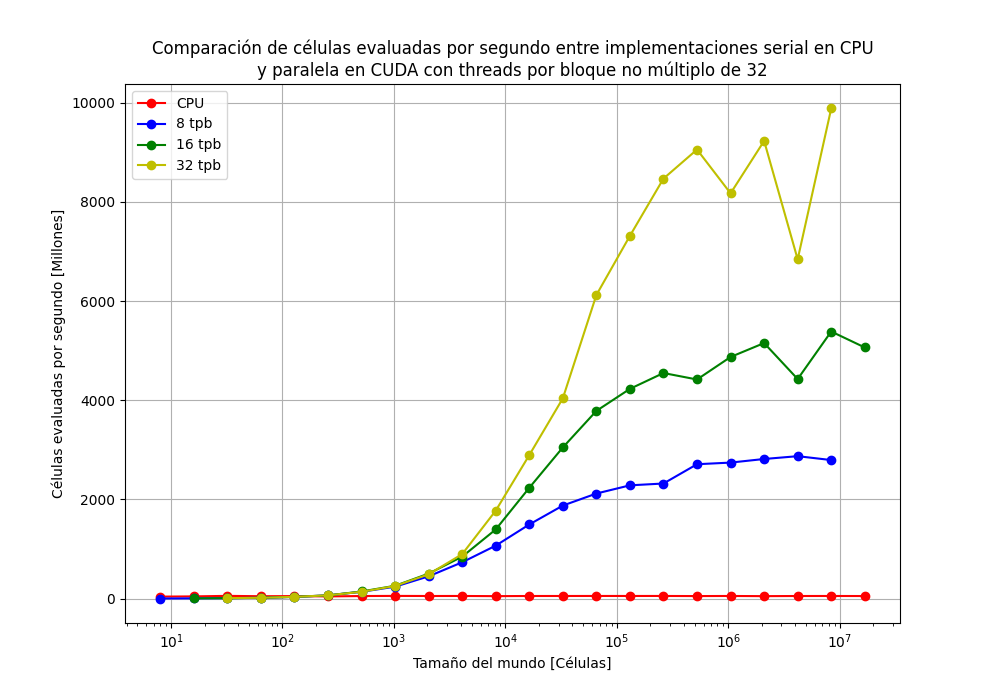
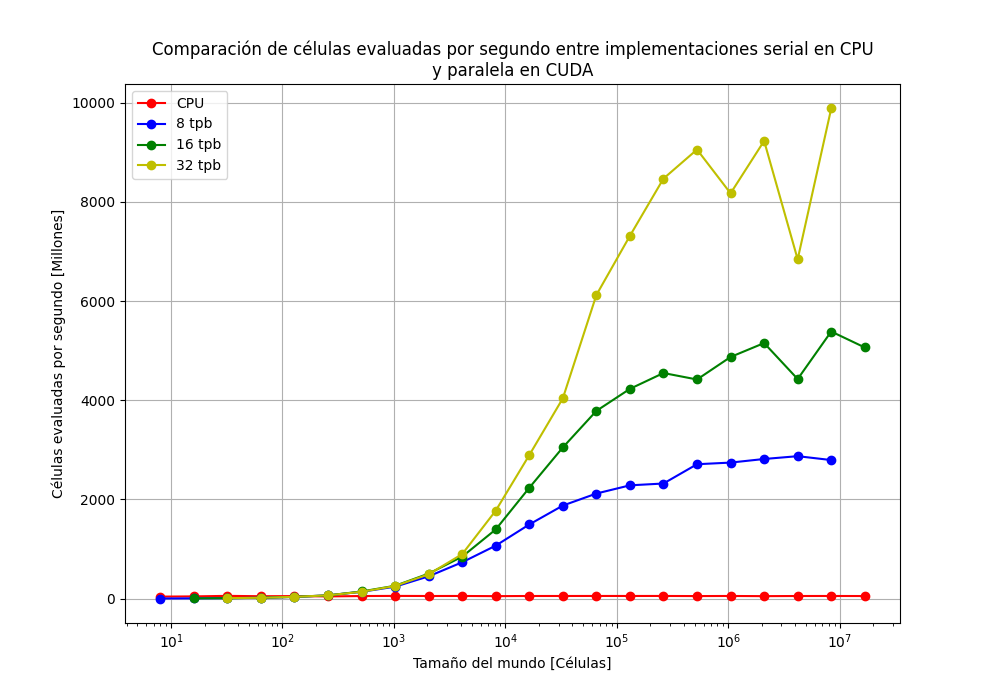
Charts refactores v.2

Changed region(s): [[0.155, 0.06, 0.868, 0.12]]

diff --git a/GraphsGenerator/comparison_CPU_OpenCL_min.py b/GraphsGenerator/comparison_CPU_OpenCL_min.py
@@ -76,7 +76,7 @@ if __name__ == "__main__":
     line3 = ax.plot(n_size4, n_eval4, 'y-o', label='32 tpb')
 
     ax.set(xlabel='Tamaño del mundo [Células]', ylabel='Células evaluadas por segundo [Millones]',
-       title='Comparación de células evaluadas por segundo entre implementaciones serial en CPU\ny paralela en OpenCL con threads por bloque no múltiplo de 32')
+       title='Comparación de células evaluadas por segundo entre implementaciones serial en CPU\ny paralela en OpenCL')
     ax.grid()
 
     ax.legend()
@@ -103,7 +103,7 @@ if __name__ == "__main__":
     line3 = ax.plot(n_size4, n_eval4, 'y-o', label='32 tpb')
 
     ax.set(xlabel='Tamaño del mundo [Células]', ylabel='Células evaluadas por segundo [Millones]',
-       title='Comparación de células evaluadas por segundo entre implementaciones serial en CPU\ny paralela en OpenCL con threads por bloque no múltiplo de 32')
+       title='Comparación de células evaluadas por segundo entre implementaciones serial en CPU\ny paralela en OpenCL [Vista ampliada]')
     ax.grid()
 
     ax.legend()

diff --git a/GraphsGenerator/comparison_CPU_CUDA_min.py b/GraphsGenerator/comparison_CPU_CUDA_min.py
@@ -76,7 +76,7 @@ if __name__ == "__main__":
     line3 = ax.plot(n_size4, n_eval4, 'y-o', label='32 tpb')
 
     ax.set(xlabel='Tamaño del mundo [Células]', ylabel='Células evaluadas por segundo [Millones]',
-       title='Comparación de células evaluadas por segundo entre implementaciones serial en CPU\ny paralela en CUDA con threads por bloque no múltiplo de 32')
+       title='Comparación de células evaluadas por segundo entre implementaciones serial en CPU\ny paralela en CUDA')
     ax.grid()
 
     ax.legend()
@@ -103,7 +103,7 @@ if __name__ == "__main__":
     line3 = ax.plot(n_size4, n_eval4, 'y-o', label='32 tpb')
 
     ax.set(xlabel='Tamaño del mundo [Células]', ylabel='Células evaluadas por segundo [Millones]',
-       title='Comparación de células evaluadas por segundo entre implementaciones serial en CPU\ny paralela en CUDA con threads por bloque no múltiplo de 32')
+       title='Comparación de células evaluadas por segundo entre implementaciones serial en CPU\ny paralela en CUDA [Vista ampliada]')
     ax.grid()
 
     ax.legend()
